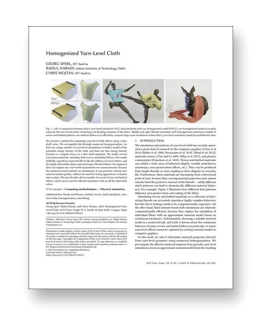
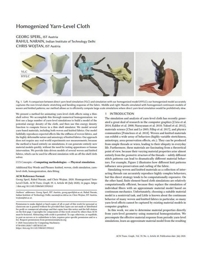
css dropshadow paper thumbnail

diff --git a/css/style.css b/css/style.css
@@ -141,3 +141,8 @@ table tr th :last-child, table tr td :last-child {
 #publications ul.years li:last-child:after {
     content: '';
 }
+
+.paperthumbnail {
+    box-shadow: 1px 4px 8px 0 rgba(0, 0, 0, 0.5), 0 10px 14px 0 rgba(0, 0, 0, 0.2);
+    margin: 6px 16px 16px 16px;
+}

diff --git a/_publications/2020/HYLC.md b/_publications/2020/HYLC.md
@@ -66,7 +66,7 @@ teaser:
 
 {{ page.abstract }}
 
-[![alt text](thumb_paper.jpg "Paper"){: width="250px"}]({{page.paper}}) Paper (40MB) 
+[![alt text](thumb_paper.jpg "Paper"){: .paperthumbnail}]({{page.paper}}) Paper (40MB) 
 
 <!-- 
 Paper (40MB)             |  Supplementary |       Pseudo-Code
